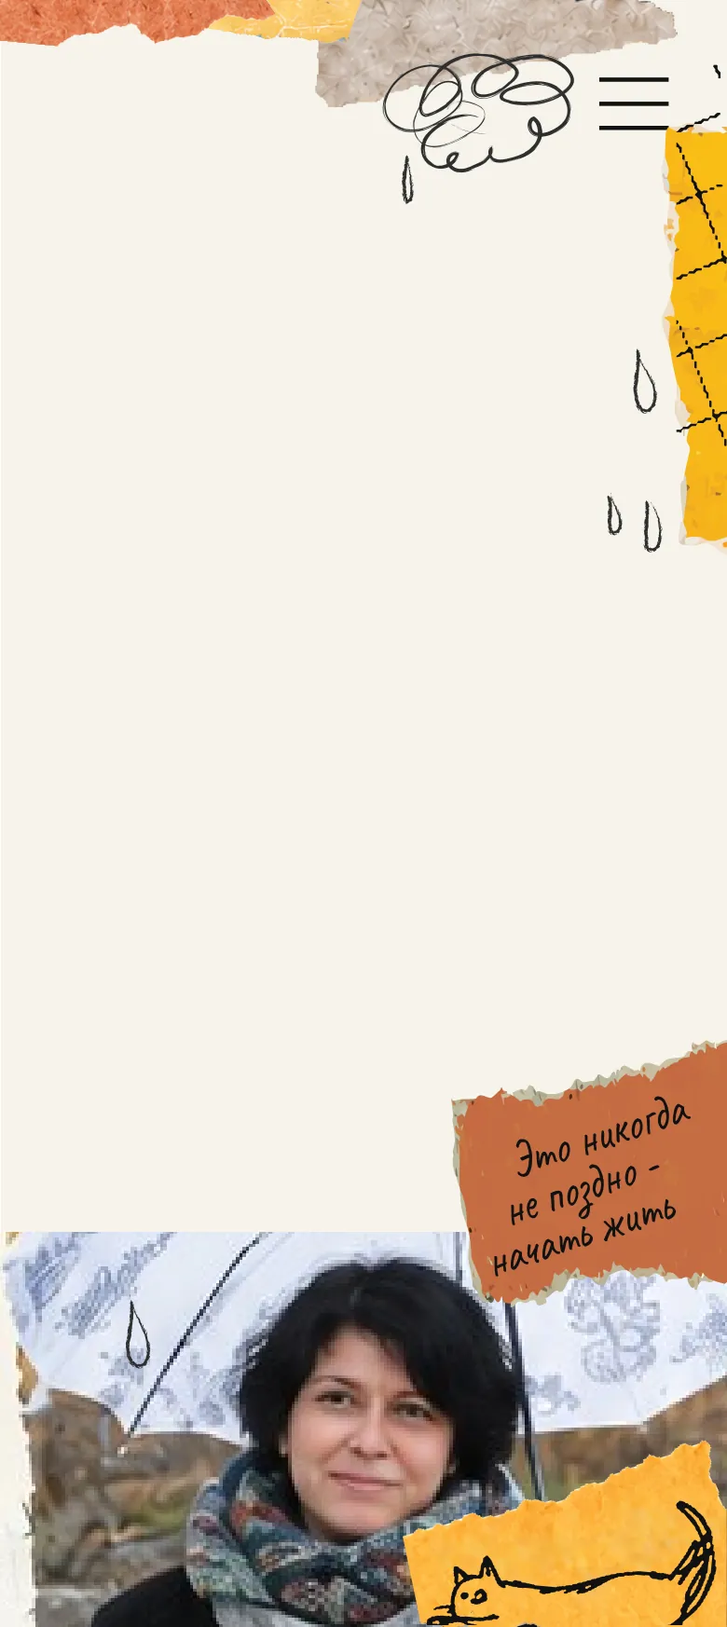
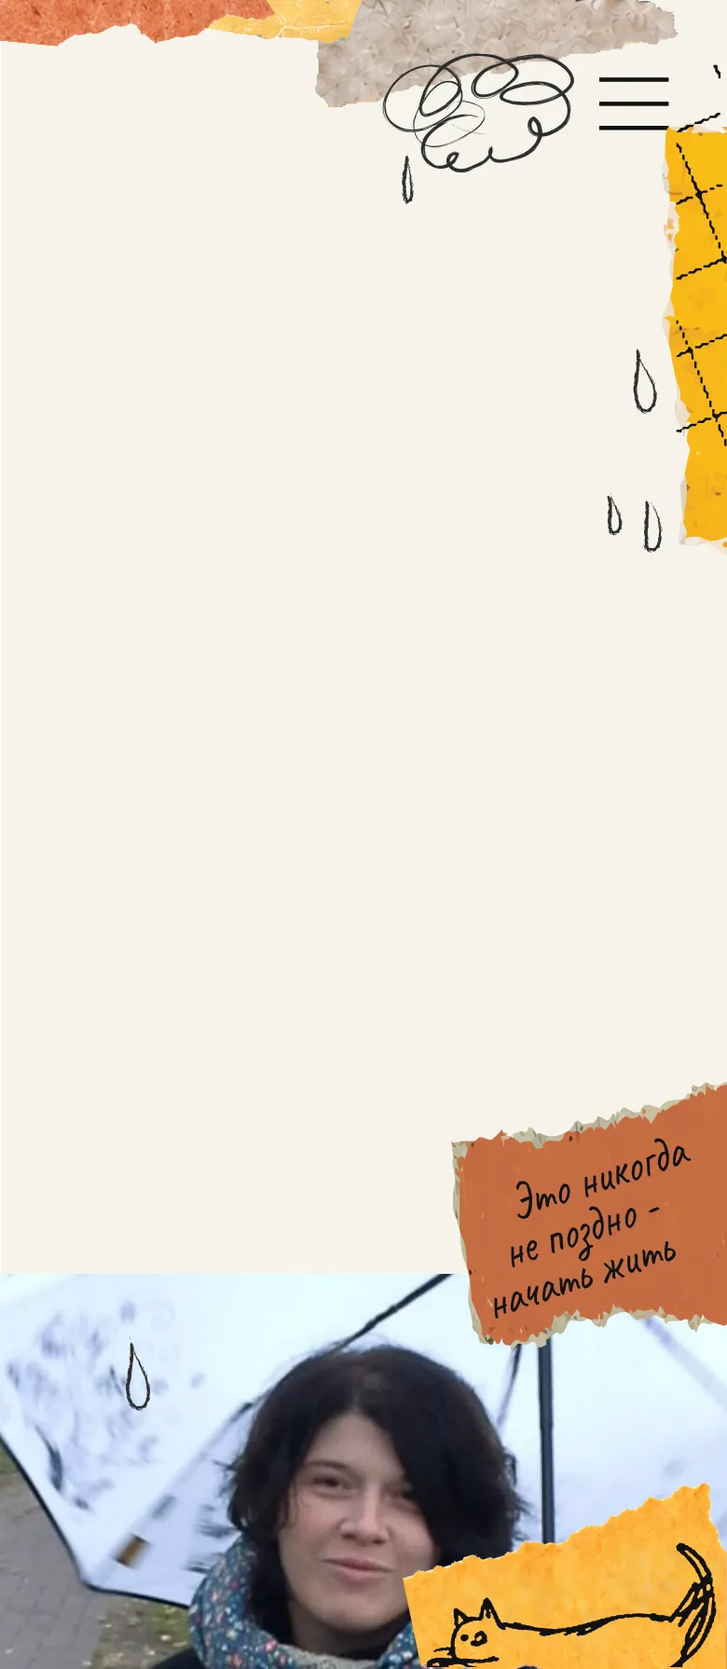
«Обо мне»: на телефоне и компьютере настоящее фото с зонтом из WhatsApp вместо обработанного

Changed region(s): [[0.0, 0.6186, 1.0, 1.0], [0.8308, 0.0309, 1.0, 0.3402], [0.5231, 0.0309, 0.8, 0.1237]]

diff --git a/index.html b/index.html
@@ -5108,10 +5108,10 @@
 <!-- 5. Обо мне -->
 <section class="screen" id="about">
 <!--ART-5-->
-<svg class="art" viewBox="0 0 1440 901.0" role="img" aria-label="about"><image href="assets/img/screens/s5.webp?v=04873ee4" x="-1" y="-1" width="1442" height="903.0" preserveAspectRatio="none"/><g class="live"><text font-size="88" fill="#111111" xml:space="preserve" transform="translate(84.9 227.8) scale(0.72 1)"><tspan x="0.0" y="0.0" font-family="'Old Standard TT'" font-weight="700">ОБО МНЕ</tspan></text><text font-size="20" fill="#111111" xml:space="preserve"><tspan x="95.1" y="284.2" font-family="'Old Standard TT'" font-weight="700">Я сама прошла через многое из того, </tspan></text><text font-size="20" fill="#111111" xml:space="preserve"><tspan x="95.1" y="317.8" font-family="'Old Standard TT'" font-weight="700">с чем приходят мои клиенты: физическое и </tspan></text><text font-size="20" fill="#111111" xml:space="preserve"><tspan x="95.1" y="351.4" font-family="'Old Standard TT'" font-weight="700">эмоциональное насилие, зависимости, </tspan></text><text font-size="20" fill="#111111" xml:space="preserve"><tspan x="95.1" y="385.0" font-family="'Old Standard TT'" font-weight="700">суицидальность.</tspan></text><text font-size="20" fill="#111111" xml:space="preserve"><tspan x="95.1" y="452.2" font-family="'Old Standard TT'" font-weight="400">Меня не пугают страшные истории.</tspan></text><text font-size="20" fill="#111111" xml:space="preserve"><tspan x="95.1" y="485.8" font-family="'Old Standard TT'" font-weight="400">За свою практику я много раз видела, как внешняя </tspan></text><text font-size="20" fill="#111111" xml:space="preserve"><tspan x="95.1" y="519.4" font-family="'Old Standard TT'" font-weight="400">проблема оказывается только верхушкой, а за ней </tspan></text><text font-size="20" fill="#111111" xml:space="preserve"><tspan x="95.1" y="553.0" font-family="'Old Standard TT'" font-weight="400">могут стоять опыт детства, травма, стыд, страх </tspan></text><text font-size="20" fill="#111111" xml:space="preserve"><tspan x="95.1" y="586.6" font-family="'Old Standard TT'" font-weight="400">близости или привычка постоянно справляться со </tspan></text><text font-size="20" fill="#111111" xml:space="preserve"><tspan x="95.1" y="620.2" font-family="'Old Standard TT'" font-weight="400">всем самостоятельно.</tspan></text><text font-size="20" fill="#111111" xml:space="preserve"><tspan x="95.1" y="653.8" font-family="'Old Standard TT'" font-weight="400">Мне важно не просто помочь вам пережить </tspan></text><text font-size="20" fill="#111111" xml:space="preserve"><tspan x="95.1" y="687.4" font-family="'Old Standard TT'" font-weight="400">очередной сложный период, а вместе </tspan></text><text font-size="20" fill="#111111" xml:space="preserve"><tspan x="95.1" y="721.0" font-family="'Old Standard TT'" font-weight="400">разобраться в том, как устроена ваша психика, </tspan></text><text font-size="20" fill="#111111" xml:space="preserve"><tspan x="95.1" y="754.6" font-family="'Old Standard TT'" font-weight="400">как отказаться от старых и неработающих </tspan></text><text font-size="20" fill="#111111" xml:space="preserve"><tspan x="95.1" y="788.2" font-family="'Old Standard TT'" font-weight="400">способов справляться со страданием и что </tspan></text><text font-size="20" fill="#111111" xml:space="preserve"><tspan x="95.1" y="821.8" font-family="'Old Standard TT'" font-weight="400">можно постепенно изменить. </tspan></text><text font-size="21.1" textLength="134.0" lengthAdjust="spacingAndGlyphs" fill="#111111" x="88" y="58" font-family="'Old Standard TT'" font-weight="700">ЕКАТЕРИНА</text><text font-size="21.1" textLength="88.8" lengthAdjust="spacingAndGlyphs" fill="#111111" x="88" y="80" font-family="'Old Standard TT'" font-weight="700">БУРЛАК</text><text font-size="14.5" textLength="169.0" lengthAdjust="spacingAndGlyphs" fill="#111111" x="89" y="108" font-family="'Old Standard TT'" font-weight="400">ПСИХОЛОГ · ОНЛАЙН</text><text font-size="17.3" fill="#191415" x="878.3" y="58" font-family="Oswald" font-weight="300">ОБО МНЕ</text><text font-size="17.3" fill="#191415" x="979.3" y="58" font-family="Oswald" font-weight="300">С ЧЕМ Я РАБОТАЮ</text><text font-size="17.3" fill="#191415" x="1145.3" y="58" font-family="Oswald" font-weight="300">СУПЕРВИЗИЯ</text><text font-size="17.3" fill="#191415" x="1264.3" y="58" font-family="Oswald" font-weight="300">КОНТАКТЫ</text></g><a href="#about" aria-label="Обо мне"><rect class="hit" rx="10" x="868.3" y="33.0" width="79.0" height="39.0"/></a><a href="#requests" aria-label="С чем я работаю"><rect class="hit" rx="10" x="969.3" y="33.0" width="145.0" height="39.0"/></a><a href="#contact" aria-label="Супервизия"><rect class="hit" rx="10" x="1135.3" y="33.0" width="105.0" height="39.0"/></a><a href="#contact" aria-label="Контакты"><rect class="hit" rx="10" x="1254.3" y="33.0" width="93.0" height="39.0"/></a><a href="#top" aria-label="Екатерина Бурлак, наверх"><rect class="hit" rx="10" x="78.0" y="30.0" width="200.0" height="92.0"/></a></svg>
+<svg class="art" viewBox="0 0 1440 901.0" role="img" aria-label="about"><image href="assets/img/screens/s5.webp?v=bf6cc3de" x="-1" y="-1" width="1442" height="903.0" preserveAspectRatio="none"/><g class="live"><text font-size="88" fill="#111111" xml:space="preserve" transform="translate(84.9 227.8) scale(0.72 1)"><tspan x="0.0" y="0.0" font-family="'Old Standard TT'" font-weight="700">ОБО МНЕ</tspan></text><text font-size="20" fill="#111111" xml:space="preserve"><tspan x="95.1" y="284.2" font-family="'Old Standard TT'" font-weight="700">Я сама прошла через многое из того, </tspan></text><text font-size="20" fill="#111111" xml:space="preserve"><tspan x="95.1" y="317.8" font-family="'Old Standard TT'" font-weight="700">с чем приходят мои клиенты: физическое и </tspan></text><text font-size="20" fill="#111111" xml:space="preserve"><tspan x="95.1" y="351.4" font-family="'Old Standard TT'" font-weight="700">эмоциональное насилие, зависимости, </tspan></text><text font-size="20" fill="#111111" xml:space="preserve"><tspan x="95.1" y="385.0" font-family="'Old Standard TT'" font-weight="700">суицидальность.</tspan></text><text font-size="20" fill="#111111" xml:space="preserve"><tspan x="95.1" y="452.2" font-family="'Old Standard TT'" font-weight="400">Меня не пугают страшные истории.</tspan></text><text font-size="20" fill="#111111" xml:space="preserve"><tspan x="95.1" y="485.8" font-family="'Old Standard TT'" font-weight="400">За свою практику я много раз видела, как внешняя </tspan></text><text font-size="20" fill="#111111" xml:space="preserve"><tspan x="95.1" y="519.4" font-family="'Old Standard TT'" font-weight="400">проблема оказывается только верхушкой, а за ней </tspan></text><text font-size="20" fill="#111111" xml:space="preserve"><tspan x="95.1" y="553.0" font-family="'Old Standard TT'" font-weight="400">могут стоять опыт детства, травма, стыд, страх </tspan></text><text font-size="20" fill="#111111" xml:space="preserve"><tspan x="95.1" y="586.6" font-family="'Old Standard TT'" font-weight="400">близости или привычка постоянно справляться со </tspan></text><text font-size="20" fill="#111111" xml:space="preserve"><tspan x="95.1" y="620.2" font-family="'Old Standard TT'" font-weight="400">всем самостоятельно.</tspan></text><text font-size="20" fill="#111111" xml:space="preserve"><tspan x="95.1" y="653.8" font-family="'Old Standard TT'" font-weight="400">Мне важно не просто помочь вам пережить </tspan></text><text font-size="20" fill="#111111" xml:space="preserve"><tspan x="95.1" y="687.4" font-family="'Old Standard TT'" font-weight="400">очередной сложный период, а вместе </tspan></text><text font-size="20" fill="#111111" xml:space="preserve"><tspan x="95.1" y="721.0" font-family="'Old Standard TT'" font-weight="400">разобраться в том, как устроена ваша психика, </tspan></text><text font-size="20" fill="#111111" xml:space="preserve"><tspan x="95.1" y="754.6" font-family="'Old Standard TT'" font-weight="400">как отказаться от старых и неработающих </tspan></text><text font-size="20" fill="#111111" xml:space="preserve"><tspan x="95.1" y="788.2" font-family="'Old Standard TT'" font-weight="400">способов справляться со страданием и что </tspan></text><text font-size="20" fill="#111111" xml:space="preserve"><tspan x="95.1" y="821.8" font-family="'Old Standard TT'" font-weight="400">можно постепенно изменить. </tspan></text><text font-size="21.1" textLength="134.0" lengthAdjust="spacingAndGlyphs" fill="#111111" x="88" y="58" font-family="'Old Standard TT'" font-weight="700">ЕКАТЕРИНА</text><text font-size="21.1" textLength="88.8" lengthAdjust="spacingAndGlyphs" fill="#111111" x="88" y="80" font-family="'Old Standard TT'" font-weight="700">БУРЛАК</text><text font-size="14.5" textLength="169.0" lengthAdjust="spacingAndGlyphs" fill="#111111" x="89" y="108" font-family="'Old Standard TT'" font-weight="400">ПСИХОЛОГ · ОНЛАЙН</text><text font-size="17.3" fill="#191415" x="878.3" y="58" font-family="Oswald" font-weight="300">ОБО МНЕ</text><text font-size="17.3" fill="#191415" x="979.3" y="58" font-family="Oswald" font-weight="300">С ЧЕМ Я РАБОТАЮ</text><text font-size="17.3" fill="#191415" x="1145.3" y="58" font-family="Oswald" font-weight="300">СУПЕРВИЗИЯ</text><text font-size="17.3" fill="#191415" x="1264.3" y="58" font-family="Oswald" font-weight="300">КОНТАКТЫ</text></g><a href="#about" aria-label="Обо мне"><rect class="hit" rx="10" x="868.3" y="33.0" width="79.0" height="39.0"/></a><a href="#requests" aria-label="С чем я работаю"><rect class="hit" rx="10" x="969.3" y="33.0" width="145.0" height="39.0"/></a><a href="#contact" aria-label="Супервизия"><rect class="hit" rx="10" x="1135.3" y="33.0" width="105.0" height="39.0"/></a><a href="#contact" aria-label="Контакты"><rect class="hit" rx="10" x="1254.3" y="33.0" width="93.0" height="39.0"/></a><a href="#top" aria-label="Екатерина Бурлак, наверх"><rect class="hit" rx="10" x="78.0" y="30.0" width="200.0" height="92.0"/></a></svg>
 <!--/ART-5-->
 <!--M-5-->
-<div class="m-only m-art-wrap"><svg class="m-art" viewBox="0 0 699 1564.7" role="img"><image href="assets/img/mobile/m5.webp?v=14e1c086" x="0" y="0" width="699" height="1565.2" preserveAspectRatio="none"/><g class="live"><text font-size="35.2" textLength="235.4" lengthAdjust="spacingAndGlyphs" fill="#111111" xml:space="preserve" transform="translate(61.2 98.1) scale(0.9487 1)"><tspan x="0.0" y="0.0" font-family="'Old Standard TT'" font-weight="700">ЕКАТЕРИНА</tspan></text><text font-size="35.2" textLength="156.6" lengthAdjust="spacingAndGlyphs" fill="#111111" xml:space="preserve" transform="translate(61.2 134.7) scale(0.9454 1)"><tspan x="0.0" y="0.0" font-family="'Old Standard TT'" font-weight="700">БУРЛАК</tspan></text><text font-size="24.2" textLength="272.4" lengthAdjust="spacingAndGlyphs" fill="#111111" xml:space="preserve" transform="translate(64.9 181.4) scale(1.0345 1)"><tspan x="0.0" y="0.0" font-family="'Old Standard TT'" font-weight="400">ПСИХОЛОГ · ОНЛАЙН</tspan></text><text font-size="141.9" textLength="683.2" lengthAdjust="spacingAndGlyphs" fill="#111111" xml:space="preserve" transform="translate(48.2 329.2) scale(0.7790 1)"><tspan x="0.0" y="0.0" font-family="'Old Standard TT'" font-weight="700">ОБО МНЕ</tspan></text><text font-size="33.6" fill="#111111" xml:space="preserve" transform="translate(61.2 395.5) scale(0.9831 1)"><tspan font-family="'Old Standard TT'" font-weight="700">Я сама прошла через многое</tspan></text><text font-size="33.6" fill="#111111" xml:space="preserve" transform="translate(61.2 435.8) scale(0.9831 1)"><tspan font-family="'Old Standard TT'" font-weight="700">из того, с чем приходят мои</tspan></text><text font-size="33.6" fill="#111111" xml:space="preserve" transform="translate(61.2 476.1) scale(0.9831 1)"><tspan font-family="'Old Standard TT'" font-weight="700">клиенты: физическое</tspan></text><text font-size="33.6" fill="#111111" xml:space="preserve" transform="translate(61.2 516.4) scale(0.9831 1)"><tspan font-family="'Old Standard TT'" font-weight="700">и эмоциональное насилие,</tspan></text><text font-size="33.6" fill="#111111" xml:space="preserve" transform="translate(61.2 556.7) scale(0.9831 1)"><tspan font-family="'Old Standard TT'" font-weight="700">зависимости, суицидальность.</tspan></text><text font-size="33.6" fill="#111111" xml:space="preserve" transform="translate(61.2 629.8) scale(0.9814 1)"><tspan font-family="'Old Standard TT'" font-weight="400">Меня не пугают страшные истории.</tspan></text><text font-size="33.6" fill="#111111" xml:space="preserve" transform="translate(61.2 670.1) scale(0.9814 1)"><tspan font-family="'Old Standard TT'" font-weight="400">За свою практику я много раз видела,</tspan></text><text font-size="33.6" fill="#111111" xml:space="preserve" transform="translate(61.2 710.4) scale(0.9814 1)"><tspan font-family="'Old Standard TT'" font-weight="400">как внешняя проблема оказывается</tspan></text><text font-size="33.6" fill="#111111" xml:space="preserve" transform="translate(61.2 750.8) scale(0.9814 1)"><tspan font-family="'Old Standard TT'" font-weight="400">только верхушкой, а за ней могут</tspan></text><text font-size="33.6" fill="#111111" xml:space="preserve" transform="translate(61.2 791.1) scale(0.9814 1)"><tspan font-family="'Old Standard TT'" font-weight="400">стоять опыт детства, травма, стыд,</tspan></text><text font-size="33.6" fill="#111111" xml:space="preserve" transform="translate(61.2 831.4) scale(0.9814 1)"><tspan font-family="'Old Standard TT'" font-weight="400">страх близости или привычка постоянно</tspan></text><text font-size="33.6" fill="#111111" xml:space="preserve" transform="translate(61.2 871.7) scale(0.9814 1)"><tspan font-family="'Old Standard TT'" font-weight="400">справляться со всем самостоятельно.</tspan></text><text font-size="33.6" fill="#111111" xml:space="preserve" transform="translate(61.2 912.1) scale(0.9814 1)"><tspan font-family="'Old Standard TT'" font-weight="400">Мне важно не просто помочь вам</tspan></text><text font-size="33.6" fill="#111111" xml:space="preserve" transform="translate(61.2 952.4) scale(0.9814 1)"><tspan font-family="'Old Standard TT'" font-weight="400">пережить очередной сложный период,</tspan></text><text font-size="33.6" fill="#111111" xml:space="preserve" transform="translate(61.2 992.7) scale(0.9814 1)"><tspan font-family="'Old Standard TT'" font-weight="400">а вместе разобраться в том, как</tspan></text><text font-size="33.6" fill="#111111" xml:space="preserve" transform="translate(61.2 1033.0) scale(0.9814 1)"><tspan font-family="'Old Standard TT'" font-weight="400">устроена ваша психика, как отказаться</tspan></text><text font-size="33.6" fill="#111111" xml:space="preserve" transform="translate(61.2 1073.3) scale(0.9814 1)"><tspan font-family="'Old Standard TT'" font-weight="400">от старых и неработающих способов</tspan></text><text font-size="33.6" fill="#111111" xml:space="preserve" transform="translate(61.2 1113.7) scale(0.9814 1)"><tspan font-family="'Old Standard TT'" font-weight="400">справляться со страданием и что можно</tspan></text><text font-size="33.6" fill="#111111" xml:space="preserve" transform="translate(61.2 1154.0) scale(0.9814 1)"><tspan font-family="'Old Standard TT'" font-weight="400">постепенно изменить.</tspan></text></g><a href="#top" aria-label="Екатерина Бурлак, наверх"><rect class="hit" rx="10" x="53.2" y="49.0" width="298.0" height="118.0"/></a><a href="#menu" class="m-burger-hit" aria-label="Открыть меню"><rect class="hit" rx="10" x="566" y="58" width="92" height="74"/></a></svg></div>
+<div class="m-only m-art-wrap"><svg class="m-art" viewBox="0 0 699 1605.0" role="img"><image href="assets/img/mobile/m5.webp?v=9f2fd859" x="0" y="0" width="699" height="1605.5" preserveAspectRatio="none"/><g class="live"><text font-size="35.2" textLength="235.4" lengthAdjust="spacingAndGlyphs" fill="#111111" xml:space="preserve" transform="translate(61.2 98.1) scale(0.9487 1)"><tspan x="0.0" y="0.0" font-family="'Old Standard TT'" font-weight="700">ЕКАТЕРИНА</tspan></text><text font-size="35.2" textLength="156.6" lengthAdjust="spacingAndGlyphs" fill="#111111" xml:space="preserve" transform="translate(61.2 134.7) scale(0.9454 1)"><tspan x="0.0" y="0.0" font-family="'Old Standard TT'" font-weight="700">БУРЛАК</tspan></text><text font-size="24.2" textLength="272.4" lengthAdjust="spacingAndGlyphs" fill="#111111" xml:space="preserve" transform="translate(64.9 181.4) scale(1.0345 1)"><tspan x="0.0" y="0.0" font-family="'Old Standard TT'" font-weight="400">ПСИХОЛОГ · ОНЛАЙН</tspan></text><text font-size="141.9" textLength="683.2" lengthAdjust="spacingAndGlyphs" fill="#111111" xml:space="preserve" transform="translate(48.2 329.2) scale(0.7790 1)"><tspan x="0.0" y="0.0" font-family="'Old Standard TT'" font-weight="700">ОБО МНЕ</tspan></text><text font-size="33.6" fill="#111111" xml:space="preserve" transform="translate(61.2 395.5) scale(0.9831 1)"><tspan font-family="'Old Standard TT'" font-weight="700">Я сама прошла через многое</tspan></text><text font-size="33.6" fill="#111111" xml:space="preserve" transform="translate(61.2 435.8) scale(0.9831 1)"><tspan font-family="'Old Standard TT'" font-weight="700">из того, с чем приходят мои</tspan></text><text font-size="33.6" fill="#111111" xml:space="preserve" transform="translate(61.2 476.1) scale(0.9831 1)"><tspan font-family="'Old Standard TT'" font-weight="700">клиенты: физическое</tspan></text><text font-size="33.6" fill="#111111" xml:space="preserve" transform="translate(61.2 516.4) scale(0.9831 1)"><tspan font-family="'Old Standard TT'" font-weight="700">и эмоциональное насилие,</tspan></text><text font-size="33.6" fill="#111111" xml:space="preserve" transform="translate(61.2 556.7) scale(0.9831 1)"><tspan font-family="'Old Standard TT'" font-weight="700">зависимости, суицидальность.</tspan></text><text font-size="33.6" fill="#111111" xml:space="preserve" transform="translate(61.2 629.8) scale(0.9814 1)"><tspan font-family="'Old Standard TT'" font-weight="400">Меня не пугают страшные истории.</tspan></text><text font-size="33.6" fill="#111111" xml:space="preserve" transform="translate(61.2 670.1) scale(0.9814 1)"><tspan font-family="'Old Standard TT'" font-weight="400">За свою практику я много раз видела,</tspan></text><text font-size="33.6" fill="#111111" xml:space="preserve" transform="translate(61.2 710.4) scale(0.9814 1)"><tspan font-family="'Old Standard TT'" font-weight="400">как внешняя проблема оказывается</tspan></text><text font-size="33.6" fill="#111111" xml:space="preserve" transform="translate(61.2 750.8) scale(0.9814 1)"><tspan font-family="'Old Standard TT'" font-weight="400">только верхушкой, а за ней могут</tspan></text><text font-size="33.6" fill="#111111" xml:space="preserve" transform="translate(61.2 791.1) scale(0.9814 1)"><tspan font-family="'Old Standard TT'" font-weight="400">стоять опыт детства, травма, стыд,</tspan></text><text font-size="33.6" fill="#111111" xml:space="preserve" transform="translate(61.2 831.4) scale(0.9814 1)"><tspan font-family="'Old Standard TT'" font-weight="400">страх близости или привычка постоянно</tspan></text><text font-size="33.6" fill="#111111" xml:space="preserve" transform="translate(61.2 871.7) scale(0.9814 1)"><tspan font-family="'Old Standard TT'" font-weight="400">справляться со всем самостоятельно.</tspan></text><text font-size="33.6" fill="#111111" xml:space="preserve" transform="translate(61.2 912.1) scale(0.9814 1)"><tspan font-family="'Old Standard TT'" font-weight="400">Мне важно не просто помочь вам</tspan></text><text font-size="33.6" fill="#111111" xml:space="preserve" transform="translate(61.2 952.4) scale(0.9814 1)"><tspan font-family="'Old Standard TT'" font-weight="400">пережить очередной сложный период,</tspan></text><text font-size="33.6" fill="#111111" xml:space="preserve" transform="translate(61.2 992.7) scale(0.9814 1)"><tspan font-family="'Old Standard TT'" font-weight="400">а вместе разобраться в том, как</tspan></text><text font-size="33.6" fill="#111111" xml:space="preserve" transform="translate(61.2 1033.0) scale(0.9814 1)"><tspan font-family="'Old Standard TT'" font-weight="400">устроена ваша психика, как отказаться</tspan></text><text font-size="33.6" fill="#111111" xml:space="preserve" transform="translate(61.2 1073.3) scale(0.9814 1)"><tspan font-family="'Old Standard TT'" font-weight="400">от старых и неработающих</tspan></text><text font-size="33.6" fill="#111111" xml:space="preserve" transform="translate(61.2 1113.7) scale(0.9814 1)"><tspan font-family="'Old Standard TT'" font-weight="400">способов справляться</tspan></text><text font-size="33.6" fill="#111111" xml:space="preserve" transform="translate(61.2 1154.0) scale(0.9814 1)"><tspan font-family="'Old Standard TT'" font-weight="400">со страданием и что можно</tspan></text><text font-size="33.6" fill="#111111" xml:space="preserve" transform="translate(61.2 1194.3) scale(0.9814 1)"><tspan font-family="'Old Standard TT'" font-weight="400">постепенно изменить.</tspan></text></g><a href="#top" aria-label="Екатерина Бурлак, наверх"><rect class="hit" rx="10" x="53.2" y="49.0" width="298.0" height="118.0"/></a><a href="#menu" class="m-burger-hit" aria-label="Открыть меню"><rect class="hit" rx="10" x="566" y="58" width="92" height="74"/></a></svg></div>
 <!--/M-5-->
 </section>
 
@@ -5121,7 +5121,7 @@
 <svg class="art" viewBox="0 0 1440 900.0" role="img" aria-label="how"><image href="assets/img/screens/s6.webp?v=b7308fe3" x="-1" y="-1" width="1442" height="902.0" preserveAspectRatio="none"/><g class="live"><g transform="translate(19 0)"><text font-size="88" fill="#111111" xml:space="preserve" transform="translate(72.8 227.5) scale(0.72 1)"><tspan x="0.0" y="0.0" font-family="'Old Standard TT'" font-weight="700">КАК Я РАБОТАЮ</tspan></text><text font-size="20" fill="#111111" xml:space="preserve"><tspan x="85.0" y="297.2" font-family="'Old Standard TT'" font-weight="400">В работе я опираюсь на доказательные подходы: </tspan></text><text font-size="20" fill="#111111" xml:space="preserve"><tspan x="85.0" y="330.8" font-family="'Old Standard TT'" font-weight="400">ACT, CFT и MBT, при работе с травматическим </tspan></text><text font-size="20" fill="#111111" xml:space="preserve"><tspan x="85.0" y="364.4" font-family="'Old Standard TT'" font-weight="400">опытом использую элементы TIST для стабилизации</tspan></text><text font-size="20" fill="#111111" xml:space="preserve"><tspan x="234.7" y="439.6" font-family="'Old Standard TT'" font-weight="700">ACT: </tspan><tspan font-family="'Old Standard TT'" font-weight="400">Терапия</tspan></text><text font-size="20" fill="#111111" xml:space="preserve"><tspan x="634.8" y="439.6" font-family="'Old Standard TT'" font-weight="700">CFT: </tspan><tspan font-family="'Old Standard TT'" font-weight="400">Терапия,</tspan></text><text font-size="20" fill="#111111" xml:space="preserve"><tspan x="234.7" y="473.2" font-family="'Old Standard TT'" font-weight="400">принятия </tspan></text><text font-size="20" fill="#111111" xml:space="preserve"><tspan x="634.8" y="473.2" font-family="'Old Standard TT'" font-weight="400">сфокусированная</tspan></text><text font-size="20" fill="#111111" xml:space="preserve"><tspan x="234.7" y="506.8" font-family="'Old Standard TT'" font-weight="400">и ответственности</tspan></text><text font-size="20" fill="#111111" xml:space="preserve"><tspan x="634.8" y="506.8" font-family="'Old Standard TT'" font-weight="400">на сострадании</tspan></text><text font-size="20" fill="#111111" xml:space="preserve"><tspan x="243.8" y="552.4" font-family="'Old Standard TT'" font-weight="700">MBT: </tspan><tspan font-family="'Old Standard TT'" font-weight="400">Терапия,</tspan></text><text font-size="20" fill="#111111" xml:space="preserve"><tspan x="640.3" y="553.0" font-family="'Old Standard TT'" font-weight="700">TIST: </tspan><tspan font-family="'Old Standard TT'" font-weight="400">Подход</tspan></text><text font-size="20" fill="#111111" xml:space="preserve"><tspan x="243.8" y="586.0" font-family="'Old Standard TT'" font-weight="400">основанная</tspan></text><text font-size="20" fill="#111111" xml:space="preserve"><tspan x="640.3" y="586.6" font-family="'Old Standard TT'" font-weight="400">к стабилизации</tspan></text><text font-size="20" fill="#111111" xml:space="preserve"><tspan x="243.8" y="619.6" font-family="'Old Standard TT'" font-weight="400">на ментализации</tspan></text><text font-size="20" fill="#111111" xml:space="preserve"><tspan x="640.3" y="620.2" font-family="'Old Standard TT'" font-weight="400">при работе с травмой </tspan></text><text font-size="20" fill="#111111" xml:space="preserve"><tspan x="78.5" y="687.6" font-family="'Old Standard TT'" font-weight="400">Для меня важны не только техники. </tspan><tspan font-family="'Old Standard TT'" font-weight="700">Контакт с терапевтом </tspan></text><text font-size="20" fill="#111111" xml:space="preserve"><tspan x="78.5" y="721.2" font-family="'Old Standard TT'" font-weight="700">играет большую роль в эффективности терапии, а глубокие, </tspan></text><text font-size="20" fill="#111111" xml:space="preserve"><tspan x="78.5" y="754.8" font-family="'Old Standard TT'" font-weight="700">тёплые и доверительные отношения требуют времени.</tspan></text><text font-size="20" fill="#111111" xml:space="preserve"><tspan x="78.5" y="788.4" font-family="'Old Standard TT'" font-weight="700">Поэтому моя работа обычно длительная — </tspan></text><text font-size="20" fill="#111111" xml:space="preserve"><tspan x="78.5" y="822.0" font-family="'Old Standard TT'" font-weight="700">от года и дольше.</tspan></text></g><text font-size="21.1" textLength="134.0" lengthAdjust="spacingAndGlyphs" fill="#111111" x="88" y="58" font-family="'Old Standard TT'" font-weight="700">ЕКАТЕРИНА</text><text font-size="21.1" textLength="88.8" lengthAdjust="spacingAndGlyphs" fill="#111111" x="88" y="80" font-family="'Old Standard TT'" font-weight="700">БУРЛАК</text><text font-size="14.5" textLength="169.0" lengthAdjust="spacingAndGlyphs" fill="#111111" x="89" y="108" font-family="'Old Standard TT'" font-weight="400">ПСИХОЛОГ · ОНЛАЙН</text><text font-size="17.3" fill="#191415" x="878.3" y="58" font-family="Oswald" font-weight="300">ОБО МНЕ</text><text font-size="17.3" fill="#191415" x="979.3" y="58" font-family="Oswald" font-weight="300">С ЧЕМ Я РАБОТАЮ</text><text font-size="17.3" fill="#191415" x="1145.3" y="58" font-family="Oswald" font-weight="300">СУПЕРВИЗИЯ</text><text font-size="17.3" fill="#191415" x="1264.3" y="58" font-family="Oswald" font-weight="300">КОНТАКТЫ</text></g><g transform="translate(19 0)"></g><a href="#about" aria-label="Обо мне"><rect class="hit" rx="10" x="868.3" y="33.0" width="79.0" height="39.0"/></a><a href="#requests" aria-label="С чем я работаю"><rect class="hit" rx="10" x="969.3" y="33.0" width="145.0" height="39.0"/></a><a href="#contact" aria-label="Супервизия"><rect class="hit" rx="10" x="1135.3" y="33.0" width="105.0" height="39.0"/></a><a href="#contact" aria-label="Контакты"><rect class="hit" rx="10" x="1254.3" y="33.0" width="93.0" height="39.0"/></a><a href="#top" aria-label="Екатерина Бурлак, наверх"><rect class="hit" rx="10" x="78.0" y="30.0" width="200.0" height="92.0"/></a></svg>
 <!--/ART-6-->
 <!--M-6-->
-<div class="m-only m-art-wrap"><svg class="m-art" viewBox="0 0 699 1584.4" role="img"><image href="assets/img/mobile/m6.webp?v=4b4adf6d" x="0" y="0" width="699" height="1584.9" preserveAspectRatio="none"/><g class="live"><text font-size="35.2" textLength="235.4" lengthAdjust="spacingAndGlyphs" fill="#111111" xml:space="preserve" transform="translate(61.2 97.9) scale(0.9487 1)"><tspan x="0.0" y="0.0" font-family="'Old Standard TT'" font-weight="700">ЕКАТЕРИНА</tspan></text><text font-size="35.2" textLength="156.6" lengthAdjust="spacingAndGlyphs" fill="#111111" xml:space="preserve" transform="translate(61.2 134.6) scale(0.9454 1)"><tspan x="0.0" y="0.0" font-family="'Old Standard TT'" font-weight="700">БУРЛАК</tspan></text><text font-size="24.2" textLength="272.4" lengthAdjust="spacingAndGlyphs" fill="#111111" xml:space="preserve" transform="translate(64.9 181.3) scale(1.0345 1)"><tspan x="0.0" y="0.0" font-family="'Old Standard TT'" font-weight="400">ПСИХОЛОГ · ОНЛАЙН</tspan></text><text font-size="100.8" textLength="326.3" lengthAdjust="spacingAndGlyphs" fill="#111111" xml:space="preserve" transform="translate(51.8 302.8) scale(0.7717 1)"><tspan x="0.0" y="0.0" font-family="'Old Standard TT'" font-weight="700">КАК Я</tspan></text><text font-size="101.5" textLength="544.5" lengthAdjust="spacingAndGlyphs" fill="#111111" xml:space="preserve" transform="translate(51.8 408.8) scale(0.7365 1)"><tspan x="0.0" y="0.0" font-family="'Old Standard TT'" font-weight="700">РАБОТАЮ</tspan></text><text font-size="28.0" fill="#111111" xml:space="preserve" transform="translate(55.1 468.6) scale(0.9626 1)"><tspan font-family="'Old Standard TT'" font-weight="400">В работе я опираюсь</tspan></text><text font-size="28.0" fill="#111111" xml:space="preserve" transform="translate(55.1 502.2) scale(0.9626 1)"><tspan font-family="'Old Standard TT'" font-weight="400">на доказательные</tspan></text><text font-size="28.0" fill="#111111" xml:space="preserve" transform="translate(55.1 535.8) scale(0.9626 1)"><tspan font-family="'Old Standard TT'" font-weight="400">подходы: ACT, CFT</tspan></text><text font-size="28.0" fill="#111111" xml:space="preserve" transform="translate(55.1 569.4) scale(0.9626 1)"><tspan font-family="'Old Standard TT'" font-weight="400">и MBT, при работе</tspan></text><text font-size="28.0" fill="#111111" xml:space="preserve" transform="translate(55.1 603.0) scale(0.9626 1)"><tspan font-family="'Old Standard TT'" font-weight="400">с травматическим</tspan></text><text font-size="28.0" fill="#111111" xml:space="preserve" transform="translate(55.1 636.6) scale(0.9626 1)"><tspan font-family="'Old Standard TT'" font-weight="400">опытом использую</tspan></text><text font-size="28.0" fill="#111111" xml:space="preserve" transform="translate(55.1 670.2) scale(0.9626 1)"><tspan font-family="'Old Standard TT'" font-weight="400">элементы TIST для</tspan></text><text font-size="28.0" fill="#111111" xml:space="preserve" transform="translate(55.1 703.8) scale(0.9626 1)"><tspan font-family="'Old Standard TT'" font-weight="400">стабилизации</tspan></text><text font-size="29.1" fill="#111111" xml:space="preserve" transform="translate(199.8 765.5) scale(0.9661 1)"><tspan font-family="'Old Standard TT'" font-weight="700">ACT: </tspan><tspan font-family="'Old Standard TT'" font-weight="400">Терапия</tspan></text><text font-size="29.1" fill="#111111" xml:space="preserve" transform="translate(199.8 800.5) scale(0.9661 1)"><tspan font-family="'Old Standard TT'" font-weight="400">принятия</tspan></text><text font-size="29.1" fill="#111111" xml:space="preserve" transform="translate(199.8 835.4) scale(0.9661 1)"><tspan font-family="'Old Standard TT'" font-weight="400">и ответственности</tspan></text><text font-size="29.1" fill="#111111" xml:space="preserve" transform="translate(199.1 888.0) scale(0.9692 1)"><tspan font-family="'Old Standard TT'" font-weight="700">MBT: </tspan><tspan font-family="'Old Standard TT'" font-weight="400">Терапия, основанная</tspan></text><text font-size="29.1" fill="#111111" xml:space="preserve" transform="translate(199.1 923.0) scale(0.9692 1)"><tspan font-family="'Old Standard TT'" font-weight="400">на ментализации</tspan></text><text font-size="29.1" fill="#111111" xml:space="preserve" transform="translate(198.3 989.2) scale(0.9535 1)"><tspan font-family="'Old Standard TT'" font-weight="700">CFT: </tspan><tspan font-family="'Old Standard TT'" font-weight="400">Терапия, сфокусированная</tspan></text><text font-size="29.1" fill="#111111" xml:space="preserve" transform="translate(198.3 1024.1) scale(0.9961 1)"><tspan font-family="'Old Standard TT'" font-weight="400">на сострадании</tspan></text><text font-size="29.1" fill="#111111" xml:space="preserve" transform="translate(195.4 1087.7) scale(0.9660 1)"><tspan font-family="'Old Standard TT'" font-weight="700">TIST: </tspan><tspan font-family="'Old Standard TT'" font-weight="400">Подход к стабилизации</tspan></text><text font-size="29.1" fill="#111111" xml:space="preserve" transform="translate(195.4 1122.6) scale(0.9803 1)"><tspan font-family="'Old Standard TT'" font-weight="400">при работе с травмой</tspan></text><text font-size="33.6" fill="#111111" xml:space="preserve" transform="translate(58.2 1228.6) scale(0.9874 1)"><tspan font-family="'Old Standard TT'" font-weight="400">Для меня важны не только техники.</tspan></text><text font-size="33.6" fill="#111111" xml:space="preserve" transform="translate(58.2 1268.9) scale(0.9874 1)"><tspan font-family="'Old Standard TT'" font-weight="700">Контакт с терапевтом играет большую</tspan></text><text font-size="33.6" fill="#111111" xml:space="preserve" transform="translate(58.2 1309.2) scale(0.9874 1)"><tspan font-family="'Old Standard TT'" font-weight="700">роль в эффективности терапии,</tspan></text><text font-size="33.6" fill="#111111" xml:space="preserve" transform="translate(58.2 1349.6) scale(0.9874 1)"><tspan font-family="'Old Standard TT'" font-weight="700">а глубокие, тёплые и доверительные</tspan></text><text font-size="33.6" fill="#111111" xml:space="preserve" transform="translate(58.2 1389.9) scale(0.9874 1)"><tspan font-family="'Old Standard TT'" font-weight="700">отношения требуют времени. Поэтому</tspan></text><text font-size="33.6" fill="#111111" xml:space="preserve" transform="translate(58.2 1430.2) scale(0.9874 1)"><tspan font-family="'Old Standard TT'" font-weight="700">моя работа обычно длительная —</tspan></text><text font-size="33.6" fill="#111111" xml:space="preserve" transform="translate(58.2 1470.5) scale(0.9874 1)"><tspan font-family="'Old Standard TT'" font-weight="700">от года и дольше.</tspan></text></g>0<a href="#top" aria-label="Екатерина Бурлак, наверх"><rect class="hit" rx="10" x="53.2" y="48.9" width="298.0" height="118.0"/></a><a href="#menu" class="m-burger-hit" aria-label="Открыть меню"><rect class="hit" rx="10" x="566" y="58" width="92" height="74"/></a></svg></div>
+<div class="m-only m-art-wrap"><svg class="m-art" viewBox="0 0 699 1575.4" role="img"><image href="assets/img/mobile/m6.webp?v=0226cee3" x="0" y="0" width="699" height="1575.9" preserveAspectRatio="none"/><g class="live"><text font-size="35.2" textLength="235.4" lengthAdjust="spacingAndGlyphs" fill="#111111" xml:space="preserve" transform="translate(61.2 97.9) scale(0.9487 1)"><tspan x="0.0" y="0.0" font-family="'Old Standard TT'" font-weight="700">ЕКАТЕРИНА</tspan></text><text font-size="35.2" textLength="156.6" lengthAdjust="spacingAndGlyphs" fill="#111111" xml:space="preserve" transform="translate(61.2 134.6) scale(0.9454 1)"><tspan x="0.0" y="0.0" font-family="'Old Standard TT'" font-weight="700">БУРЛАК</tspan></text><text font-size="24.2" textLength="272.4" lengthAdjust="spacingAndGlyphs" fill="#111111" xml:space="preserve" transform="translate(64.9 181.3) scale(1.0345 1)"><tspan x="0.0" y="0.0" font-family="'Old Standard TT'" font-weight="400">ПСИХОЛОГ · ОНЛАЙН</tspan></text><text font-size="100.8" textLength="326.3" lengthAdjust="spacingAndGlyphs" fill="#111111" xml:space="preserve" transform="translate(51.8 302.8) scale(0.7717 1)"><tspan x="0.0" y="0.0" font-family="'Old Standard TT'" font-weight="700">КАК Я</tspan></text><text font-size="101.5" textLength="544.5" lengthAdjust="spacingAndGlyphs" fill="#111111" xml:space="preserve" transform="translate(51.8 408.8) scale(0.7365 1)"><tspan x="0.0" y="0.0" font-family="'Old Standard TT'" font-weight="700">РАБОТАЮ</tspan></text><text font-size="28.0" fill="#111111" xml:space="preserve" transform="translate(55.1 468.6) scale(0.9626 1)"><tspan font-family="'Old Standard TT'" font-weight="400">В работе я опираюсь</tspan></text><text font-size="28.0" fill="#111111" xml:space="preserve" transform="translate(55.1 502.2) scale(0.9626 1)"><tspan font-family="'Old Standard TT'" font-weight="400">на доказательные</tspan></text><text font-size="28.0" fill="#111111" xml:space="preserve" transform="translate(55.1 535.8) scale(0.9626 1)"><tspan font-family="'Old Standard TT'" font-weight="400">подходы: ACT, CFT</tspan></text><text font-size="28.0" fill="#111111" xml:space="preserve" transform="translate(55.1 569.4) scale(0.9626 1)"><tspan font-family="'Old Standard TT'" font-weight="400">и MBT, при работе</tspan></text><text font-size="28.0" fill="#111111" xml:space="preserve" transform="translate(55.1 603.0) scale(0.9626 1)"><tspan font-family="'Old Standard TT'" font-weight="400">с травматическим</tspan></text><text font-size="28.0" fill="#111111" xml:space="preserve" transform="translate(55.1 636.6) scale(0.9626 1)"><tspan font-family="'Old Standard TT'" font-weight="400">опытом использую</tspan></text><text font-size="28.0" fill="#111111" xml:space="preserve" transform="translate(55.1 670.2) scale(0.9626 1)"><tspan font-family="'Old Standard TT'" font-weight="400">элементы TIST для</tspan></text><text font-size="28.0" fill="#111111" xml:space="preserve" transform="translate(55.1 703.8) scale(0.9626 1)"><tspan font-family="'Old Standard TT'" font-weight="400">стабилизации</tspan></text><text font-size="29.1" fill="#111111" xml:space="preserve" transform="translate(199.8 765.5) scale(0.9661 1)"><tspan font-family="'Old Standard TT'" font-weight="700">ACT: </tspan><tspan font-family="'Old Standard TT'" font-weight="400">Терапия</tspan></text><text font-size="29.1" fill="#111111" xml:space="preserve" transform="translate(199.8 800.5) scale(0.9661 1)"><tspan font-family="'Old Standard TT'" font-weight="400">принятия</tspan></text><text font-size="29.1" fill="#111111" xml:space="preserve" transform="translate(199.8 835.4) scale(0.9661 1)"><tspan font-family="'Old Standard TT'" font-weight="400">и ответственности</tspan></text><text font-size="29.1" fill="#111111" xml:space="preserve" transform="translate(199.1 888.0) scale(0.9692 1)"><tspan font-family="'Old Standard TT'" font-weight="700">MBT: </tspan><tspan font-family="'Old Standard TT'" font-weight="400">Терапия, основанная</tspan></text><text font-size="29.1" fill="#111111" xml:space="preserve" transform="translate(199.1 923.0) scale(0.9692 1)"><tspan font-family="'Old Standard TT'" font-weight="400">на ментализации</tspan></text><text font-size="29.1" fill="#111111" xml:space="preserve" transform="translate(198.3 989.2) scale(0.9535 1)"><tspan font-family="'Old Standard TT'" font-weight="700">CFT: </tspan><tspan font-family="'Old Standard TT'" font-weight="400">Терапия, сфокусированная</tspan></text><text font-size="29.1" fill="#111111" xml:space="preserve" transform="translate(198.3 1024.1) scale(0.9961 1)"><tspan font-family="'Old Standard TT'" font-weight="400">на сострадании</tspan></text><text font-size="29.1" fill="#111111" xml:space="preserve" transform="translate(195.4 1087.7) scale(0.9660 1)"><tspan font-family="'Old Standard TT'" font-weight="700">TIST: </tspan><tspan font-family="'Old Standard TT'" font-weight="400">Подход к стабилизации</tspan></text><text font-size="29.1" fill="#111111" xml:space="preserve" transform="translate(195.4 1122.6) scale(0.9803 1)"><tspan font-family="'Old Standard TT'" font-weight="400">при работе с травмой</tspan></text><text font-size="33.6" fill="#111111" xml:space="preserve" transform="translate(58.2 1228.6) scale(0.9874 1)"><tspan font-family="'Old Standard TT'" font-weight="400">Для меня важны не только техники.</tspan></text><text font-size="33.6" fill="#111111" xml:space="preserve" transform="translate(58.2 1268.9) scale(0.9874 1)"><tspan font-family="'Old Standard TT'" font-weight="700">Контакт с терапевтом играет большую</tspan></text><text font-size="33.6" fill="#111111" xml:space="preserve" transform="translate(58.2 1309.2) scale(0.9874 1)"><tspan font-family="'Old Standard TT'" font-weight="700">роль в эффективности терапии,</tspan></text><text font-size="33.6" fill="#111111" xml:space="preserve" transform="translate(58.2 1349.6) scale(0.9874 1)"><tspan font-family="'Old Standard TT'" font-weight="700">а глубокие, тёплые и доверительные</tspan></text><text font-size="33.6" fill="#111111" xml:space="preserve" transform="translate(58.2 1389.9) scale(0.9874 1)"><tspan font-family="'Old Standard TT'" font-weight="700">отношения требуют времени. Поэтому</tspan></text><text font-size="33.6" fill="#111111" xml:space="preserve" transform="translate(58.2 1430.2) scale(0.9874 1)"><tspan font-family="'Old Standard TT'" font-weight="700">моя работа обычно длительная —</tspan></text><text font-size="33.6" fill="#111111" xml:space="preserve" transform="translate(58.2 1470.5) scale(0.9874 1)"><tspan font-family="'Old Standard TT'" font-weight="700">от года и дольше.</tspan></text></g>0<a href="#top" aria-label="Екатерина Бурлак, наверх"><rect class="hit" rx="10" x="53.2" y="48.9" width="298.0" height="118.0"/></a><a href="#menu" class="m-burger-hit" aria-label="Открыть меню"><rect class="hit" rx="10" x="566" y="58" width="92" height="74"/></a></svg></div>
 <!--/M-6-->
 </section>
 
